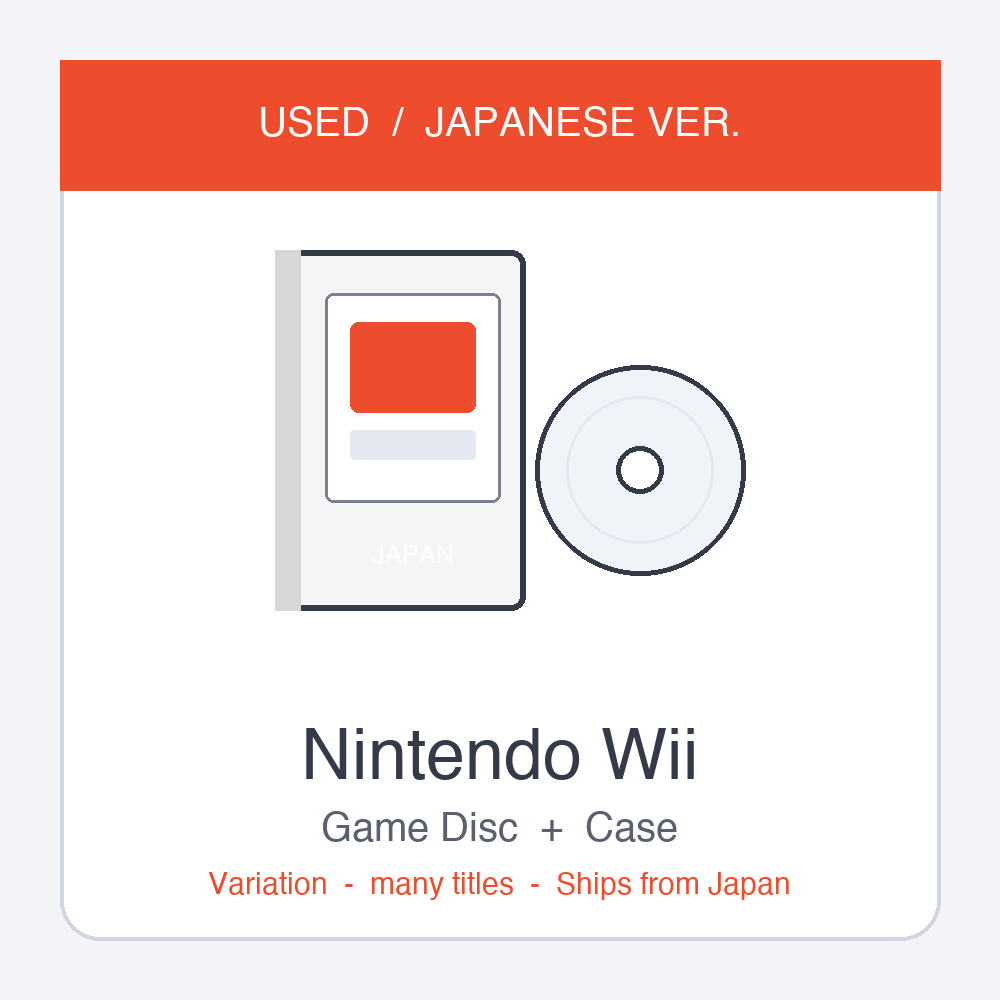
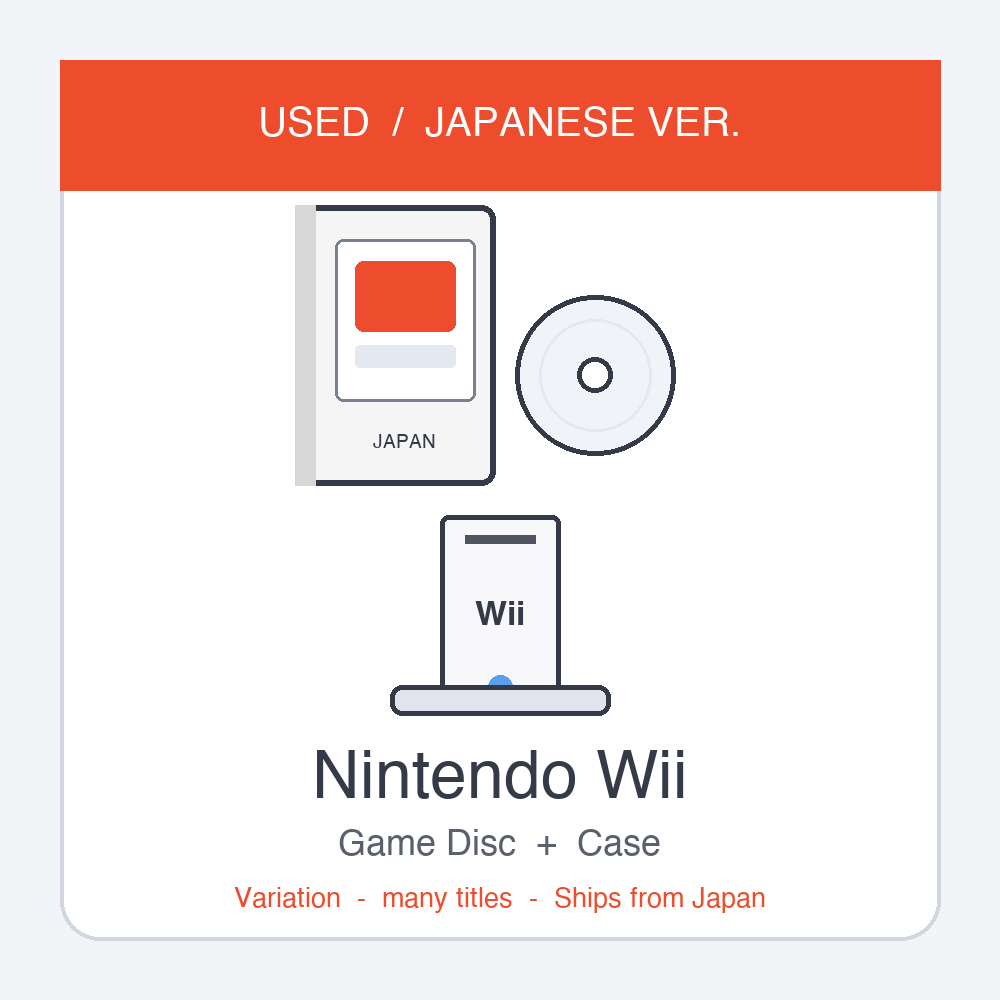
🖼 仮の表紙：全26機種に本体のイラスト（本人「どのハードか分かるイラストじゃないとダメ」）＋生成スクリプト tools/make_covers.py

Changed region(s): [[0.248, 0.186, 0.806, 0.93], [0.682, 0.403, 0.744, 0.558], [0.217, 0.868, 0.341, 0.93]]

diff --git a/tools/make_covers.py b/tools/make_covers.py
@@ -1,0 +1,118 @@
+from PIL import Image, ImageDraw, ImageFont
+HW={'switch2':('Nintendo Switch 2','Game Cartridge  +  Case','cart',1),'switch':('Nintendo Switch','Game Cartridge  +  Case','cart',1),'ps5':('PlayStation 5','Game Disc  +  Case','disc',1),'ps4':('PlayStation 4','Game Disc  +  Case','disc',1),'ps3':('PlayStation 3','Game Disc  +  Case','disc',1),'ps2':('PlayStation 2','Game Disc  +  Case','disc',1),'ps1':('PlayStation','Game Disc  +  Case','disc',1),'psp':('PSP','UMD  +  Case','umd',1),'vita':('PS Vita','Game Card  +  Case','cart',1),'ds':('Nintendo DS','Game Card  +  Case','cart',1),'3ds':('Nintendo 3DS','Game Card  +  Case','cart',1),'wii':('Nintendo Wii','Game Disc  +  Case','disc',1),'wiiu':('Nintendo Wii U','Game Disc  +  Case','disc',1),'gc':('Nintendo GameCube','Game Disc  +  Case','disc',1),'n64':('Nintendo 64','Game Cassette','cas',0),'sfc':('Super Famicom','Game Cassette','cas',0),'fc':('Famicom','Game Cassette','cas',0),'gba':('Game Boy Advance','Game Cartridge','cart',0),'gb':('Game Boy','Game Cartridge','cart',0),'md':('Sega Mega Drive','Game Cassette','cas',0),'ss':('Sega Saturn','Game Disc  +  Case','disc',1),'dc':('Sega Dreamcast','Game Disc  +  Case','disc',1),'ws':('WonderSwan','Game Cartridge','cart',0),'xbox':('Xbox','Game Disc  +  Case','disc',1),'xbox360':('Xbox 360','Game Disc  +  Case','disc',1),'pce':('PC Engine','Game Software','cas',0)}
+F=lambda s: ImageFont.truetype('/System/Library/Fonts/Helvetica.ttc',s)
+FB=lambda s: ImageFont.truetype('/System/Library/Fonts/Helvetica.ttc',s,index=1)
+INK=(52,58,72); LINE=(120,128,145); ACC=(238,77,45); PALE=(228,232,240); FILL=(240,243,248)
+BLK=(40,44,54); GRY=(190,194,204); WHT=(248,248,250); DK=(70,74,86)
+def rr(d,box,r,fill,outline=INK,w=5): d.rounded_rectangle(box,radius=r,fill=fill,outline=outline,width=w)
+def disc(d,cx,cy,r):
+    d.ellipse((cx-r,cy-r,cx+r,cy+r),fill=FILL,outline=INK,width=5); d.ellipse((cx-r*0.7,cy-r*0.7,cx+r*0.7,cy+r*0.7),outline=PALE,width=3); d.ellipse((cx-r*0.22,cy-r*0.22,cx+r*0.22,cy+r*0.22),fill='white',outline=INK,width=5)
+def cart(d,cx,cy,w,h):
+    x0,y0,x1,y1=cx-w//2,cy-h//2,cx+w//2,cy+h//2
+    rr(d,(x0,y0,x1,y1),int(w*0.08),FILL); rr(d,(x0+w*0.14,y0+h*0.12,x1-w*0.14,y0+h*0.62),8,'white',LINE,3); rr(d,(x0+w*0.3,y0+h*0.2,x1-w*0.3,y0+h*0.5),6,ACC,ACC,1)
+    d.rectangle((x0+w*0.22,y1-h*0.16,x1-w*0.22,y1-5),fill=(224,228,236),outline=LINE,width=2)
+def cas(d,cx,cy,w,h):
+    x0,y0,x1,y1=cx-w//2,cy-h//2,cx+w//2,cy+h//2
+    rr(d,(x0,y0,x1,y1),16,FILL,INK,6)
+    for i in range(5):
+        y=y0+h*0.12+i*h*0.07; d.line((x0+14,y,x0+w*0.12,y),fill=LINE,width=3); d.line((x1-w*0.12,y,x1-14,y),fill=LINE,width=3)
+    rr(d,(x0+w*0.2,y0+h*0.14,x1-w*0.2,y0+h*0.66),8,'white',LINE,4); rr(d,(x0+w*0.3,y0+h*0.22,x1-w*0.3,y0+h*0.5),8,ACC,ACC,1)
+    d.rectangle((x0+w*0.28,y1-h*0.14,x1-w*0.28,y1-6),fill=(224,228,236),outline=LINE,width=3)
+def umd(d,cx,cy,r):
+    rr(d,(cx-r*1.1,cy-r*1.0,cx+r*1.1,cy+r*1.0),30,FILL); d.ellipse((cx-r*0.75,cy-r*0.6,cx+r*0.75,cy+r*0.9),fill=(236,239,245),outline=LINE,width=4); d.ellipse((cx-r*0.18,cy-r*0.03,cx+r*0.18,cy+r*0.33),fill='white',outline=INK,width=4)
+def case(d,cx,cy,w,h,color):
+    x0,y0,x1,y1=cx-w//2,cy-h//2,cx+w//2,cy+h//2
+    rr(d,(x0,y0,x1,y1),14,color,INK,6); d.rectangle((x0,y0,x0+int(w*0.1),y1),fill=tuple(max(0,c-30) for c in color))
+    rr(d,(x0+w*0.2,y0+h*0.12,x1-w*0.1,y1-h*0.3),8,'white',LINE,3); rr(d,(x0+w*0.3,y0+h*0.2,x1-w*0.2,y0+h*0.45),8,ACC,ACC,1); rr(d,(x0+w*0.3,y0+h*0.5,x1-w*0.2,y0+h*0.58),4,PALE,PALE,1)
+    d.text(((x0+w*0.2+x1-w*0.1)/2, y1-h*0.15),'JAPAN',font=F(int(h*0.07)),fill='white' if sum(color)<600 else INK,anchor='mm')
+def label(d,cx,cy,t,size=22,fill='white'): d.text((cx,cy),t,font=FB(size),fill=fill,anchor='mm')
+# ---- consoles (each drawn centered at cx,cy within ~ 420x180) ----
+def c_switch(d,cx,cy,two):
+    w=340; h=int(w*0.42); x0,y0,x1,y1=cx-w//2,cy-h//2,cx+w//2,cy+h//2; jw=int(w*0.13)
+    rr(d,(x0,y0,x0+jw,y1),jw//2,(60,170,220) if not two else DK); rr(d,(x1-jw,y0,x1,y1),jw//2,(230,70,70) if not two else DK)
+    rr(d,(x0+jw-8,y0+6,x1-jw+8,y1-6),10,BLK); rr(d,(x0+jw+10,y0+22,x1-jw-10,y1-22),6,(120,190,235),(120,190,235),1)
+    if two: d.line((x0+jw-8,y0+6,x0+jw-8,y1-6),fill=(200,60,60),width=6); d.line((x1-jw+8,y0+6,x1-jw+8,y1-6),fill=(200,60,60),width=6); label(d,cx,cy,'2',int(h*0.6))
+    else: label(d,cx,cy,'SWITCH',30)
+    for (x,y) in [(x0+jw//2,y0+h*0.3),(x1-jw//2,y0+h*0.65)]: d.ellipse((x-9,y-9,x+9,y+9),fill=(30,30,36))
+def c_ps5(d,cx,cy):
+    d.polygon([(cx-60,cy-95),(cx+60,cy-95),(cx+75,cy+95),(cx-75,cy+95)],fill=WHT,outline=INK); d.polygon([(cx-60,cy-95),(cx+60,cy-95),(cx+75,cy+95),(cx-75,cy+95)],outline=INK,width=5)
+    rr(d,(cx-28,cy-80,cx+28,cy+80),10,BLK); rr(d,(cx-120,cy-30,cx-82,cy+30),8,WHT); rr(d,(cx+82,cy-30,cx+120,cy+30),8,WHT)
+    label(d,cx,cy,'PS5',28)
+def c_ps4(d,cx,cy):
+    d.polygon([(cx-190,cy-40),(cx+170,cy-55),(cx+190,cy+40),(cx-170,cy+55)],fill=BLK,outline=INK); d.line((cx-180,cy+5,cx+180,cy-8),fill=(80,84,96),width=4)
+    d.line((cx-150,cy-10,cx-60,cy-14),fill=(60,120,230),width=5); label(d,cx+60,cy+8,'PS4',32)
+def c_ps3(d,cx,cy):
+    rr(d,(cx-190,cy-55,cx+190,cy+55),28,BLK); d.chord((cx-190,cy-110,cx+190,cy+40),180,360,fill=(60,64,76),outline=INK,width=5); d.line((cx-150,cy+15,cx+150,cy+15),fill=(90,94,106),width=3); label(d,cx,cy+8,'PS3',32)
+def c_ps2(d,cx,cy):
+    rr(d,(cx-170,cy-65,cx+170,cy+65),8,BLK); rr(d,(cx-150,cy-45,cx-20,cy+45),4,(70,74,86),(70,74,86),1); d.rectangle((cx+20,cy-55,cx+40,cy+55),fill=(60,110,220)); d.rectangle((cx+60,cy-20,cx+150,cy-10),fill=GRY); label(d,cx-85,cy,'PS2',30)
+def c_ps1(d,cx,cy):
+    rr(d,(cx-170,cy-60,cx+170,cy+60),14,GRY,INK,6); d.ellipse((cx-70,cy-55,cx+70,cy+45),fill=(205,208,216),outline=INK,width=4); rr(d,(cx-150,cy+25,cx-60,cy+45),4,(90,94,106),(90,94,106),1); rr(d,(cx+60,cy+25,cx+150,cy+45),4,(90,94,106),(90,94,106),1); label(d,cx,cy-5,'PS',34,INK)
+def c_psp(d,cx,cy):
+    rr(d,(cx-200,cy-75,cx+200,cy+75),40,BLK); rr(d,(cx-120,cy-55,cx+120,cy+55),6,(120,190,235),(120,190,235),1); d.ellipse((cx-170,cy-20,cx-130,cy+20),fill=DK,outline=GRY,width=3)
+    for (x,y) in [(cx+150,cy-25),(cx+170,cy),(cx+150,cy+25),(cx+130,cy)]: d.ellipse((x-7,y-7,x+7,y+7),fill=GRY)
+    label(d,cx,cy,'PSP',34)
+def c_vita(d,cx,cy):
+    rr(d,(cx-205,cy-70,cx+205,cy+70),70,BLK); rr(d,(cx-125,cy-50,cx+125,cy+50),6,(120,190,235),(120,190,235),1); d.ellipse((cx-170,cy-18,cx-134,cy+18),fill=DK,outline=GRY,width=3); d.ellipse((cx+134,cy-18,cx+170,cy+18),fill=DK,outline=GRY,width=3); label(d,cx,cy,'VITA',34)
+def c_ds(d,cx,cy,three):
+    col=GRY if not three else (230,230,235)
+    rr(d,(cx-150,cy-95,cx+150,cy-5),16,col); rr(d,(cx-110,cy-82,cx+110,cy-18),4,(120,190,235),(120,190,235),1)
+    rr(d,(cx-150,cy+5,cx+150,cy+95),16,col); rr(d,(cx-70,cy+16,cx+70,cy+84),4,(120,190,235),(120,190,235),1)
+    rr(d,(cx-135,cy+35,cx-95,cy+65),4,DK,DK,1); 
+    for (x,y) in [(cx+110,cy+40),(cx+128,cy+56),(cx+92,cy+56),(cx+110,cy+72)]: d.ellipse((x-6,y-6,x+6,y+6),fill=DK)
+    label(d,cx,cy-50,'3DS' if three else 'DS',30,INK)
+def c_wii(d,cx,cy):
+    rr(d,(cx-60,cy-100,cx+60,cy+100),8,WHT); d.rectangle((cx-35,cy-80,cx+35,cy-72),fill=(80,84,96)); d.ellipse((cx-12,cy+60,cx+12,cy+84),fill=(90,160,235)); rr(d,(cx-110,cy+70,cx+110,cy+100),12,(225,228,236)); label(d,cx,cy,'Wii',34,INK)
+def c_wiiu(d,cx,cy):
+    rr(d,(cx-210,cy-80,cx+210,cy+80),50,WHT); rr(d,(cx-130,cy-62,cx+130,cy+62),6,(120,190,235),(120,190,235),1); d.ellipse((cx-180,cy-25,cx-130,cy+25),fill=(225,228,236),outline=INK,width=3); d.ellipse((cx+130,cy-25,cx+180,cy+25),fill=(225,228,236),outline=INK,width=3); label(d,cx,cy,'Wii U',34,INK)
+def c_gc(d,cx,cy):
+    rr(d,(cx-95,cy-75,cx+95,cy+95),14,(110,70,170)); rr(d,(cx-40,cy-100,cx+40,cy-70),8,(110,70,170)); d.ellipse((cx-45,cy-50,cx+45,cy+30),fill=(90,55,145),outline=INK,width=4); d.rectangle((cx-80,cy+55,cx+80,cy+80),fill=(90,55,145)); label(d,cx,cy+68,'GAMECUBE',18)
+def c_n64(d,cx,cy):
+    rr(d,(cx-190,cy-50,cx+190,cy+70),24,(70,74,86)); rr(d,(cx-60,cy-75,cx+60,cy-40),8,(55,58,68)); 
+    for i,c in enumerate([(230,70,70),(60,170,110),(60,110,220),(240,200,60)]): d.ellipse((cx-150+i*85-18,cy+10-18,cx-150+i*85+18,cy+10+18),fill=c)
+    label(d,cx,cy+48,'NINTENDO 64',20)
+def c_sfc(d,cx,cy):
+    rr(d,(cx-190,cy-55,cx+190,cy+65),30,GRY,INK,6); rr(d,(cx-170,cy-25,cx+170,cy+5),6,(205,208,216),(205,208,216),1); rr(d,(cx-170,cy+22,cx-110,cy+48),6,(120,110,200),(120,110,200),1); rr(d,(cx-95,cy+22,cx-35,cy+48),6,(120,110,200),(120,110,200),1)
+    for i,c in enumerate([(60,170,110),(230,70,70),(60,110,220),(240,200,60)]): d.ellipse((cx+60+ (i%2)*40 -11, cy+20+(i//2)*22-11, cx+60+(i%2)*40+11, cy+20+(i//2)*22+11),fill=c)
+    label(d,cx,cy-40,'SUPER FAMICOM',18,INK)
+def c_fc(d,cx,cy):
+    rr(d,(cx-190,cy-50,cx+190,cy+70),10,(205,40,45)); rr(d,(cx-175,cy-35,cx+175,cy+10),6,(245,240,230),(245,240,230),1); rr(d,(cx-165,cy+25,cx-60,cy+55),4,(245,240,230),(245,240,230),1); rr(d,(cx+60,cy+25,cx+165,cy+55),4,(245,240,230),(245,240,230),1); d.rectangle((cx-40,cy+20,cx+40,cy+60),fill=(170,30,35)); label(d,cx,cy-12,'FAMILY COMPUTER',18,INK)
+def c_gba(d,cx,cy):
+    rr(d,(cx-205,cy-70,cx+205,cy+70),60,(110,70,170)); rr(d,(cx-95,cy-50,cx+95,cy+50),4,(150,200,150),(150,200,150),1); rr(d,(cx-170,cy-22,cx-126,cy+22),4,DK,DK,1); d.ellipse((cx+120,cy-5,cx+150,cy+25),fill=DK); d.ellipse((cx+150,cy-30,cx+180,cy),fill=DK); label(d,cx,cy,'GBA',30,INK)
+def c_gb(d,cx,cy):
+    rr(d,(cx-85,cy-110,cx+85,cy+110),16,(205,208,216),INK,6); rr(d,(cx-65,cy-95,cx+65,cy-10),8,(80,84,96),(80,84,96),1); rr(d,(cx-45,cy-85,cx+45,cy-20),2,(150,200,150),(150,200,150),1); rr(d,(cx-65,cy+25,cx-30,cy+60),3,DK,DK,1); d.ellipse((cx+20,cy+40,cx+45,cy+65),fill=(160,40,80)); d.ellipse((cx+48,cy+22,cx+73,cy+47),fill=(160,40,80)); label(d,cx,cy+90,'GAME BOY',16,INK)
+def c_md(d,cx,cy):
+    rr(d,(cx-190,cy-55,cx+190,cy+65),16,BLK,INK,6); d.ellipse((cx-100,cy-45,cx+100,cy+55),fill=(60,64,76),outline=INK,width=4); rr(d,(cx-170,cy-30,cx-120,cy-15),3,DK,DK,1); label(d,cx,cy+5,'16-BIT',26,(240,200,60)); label(d,cx+140,cy+40,'MD',24)
+def c_ss(d,cx,cy):
+    rr(d,(cx-190,cy-55,cx+190,cy+65),18,(205,208,216),INK,6); d.ellipse((cx-70,cy-45,cx+70,cy+55),fill=(225,228,236),outline=INK,width=4); rr(d,(cx-170,cy+25,cx-110,cy+45),4,DK,DK,1); rr(d,(cx+110,cy+25,cx+170,cy+45),4,DK,DK,1); label(d,cx,cy-35,'SEGA SATURN',18,INK)
+def c_dc(d,cx,cy):
+    rr(d,(cx-120,cy-85,cx+120,cy+95),18,WHT,INK,6); d.ellipse((cx-70,cy-60,cx+70,cy+70),fill=(235,238,244),outline=INK,width=4); d.arc((cx-25,cy-20,cx+25,cy+30),0,300,fill=(240,120,40),width=7); label(d,cx,cy+82,'DREAMCAST',16,INK)
+def c_ws(d,cx,cy):
+    rr(d,(cx-200,cy-70,cx+200,cy+70),22,(225,228,236),INK,6); rr(d,(cx-110,cy-50,cx+110,cy+50),4,(150,200,150),(150,200,150),1)
+    for (x,y) in [(cx-160,cy-40),(cx-160,cy-10),(cx-160,cy+20),(cx-130,cy-25),(cx-130,cy+5)]: d.ellipse((x-8,y-8,x+8,y+8),fill=DK)
+    d.ellipse((cx+140,cy-5,cx+165,cy+20),fill=DK); d.ellipse((cx+165,cy-30,cx+190,cy-5),fill=DK); label(d,cx,cy,'WONDERSWAN',18,INK)
+def c_xbox(d,cx,cy):
+    rr(d,(cx-190,cy-60,cx+190,cy+70),14,BLK,INK,6); d.ellipse((cx-45,cy-50,cx+45,cy+40),fill=(60,64,76),outline=(80,200,80),width=5); d.line((cx-20,cy-25,cx+20,cy+15),fill=(80,200,80),width=7); d.line((cx+20,cy-25,cx-20,cy+15),fill=(80,200,80),width=7); label(d,cx+120,cy+10,'XBOX',22)
+def c_x360(d,cx,cy):
+    d.polygon([(cx-70,cy-100),(cx+70,cy-100),(cx+55,cy+100),(cx-55,cy+100)],fill=WHT,outline=INK); d.polygon([(cx-70,cy-100),(cx+70,cy-100),(cx+55,cy+100),(cx-55,cy+100)],outline=INK,width=5); d.ellipse((cx-22,cy-80,cx+22,cy-36),fill=(80,200,80)); d.rectangle((cx-40,cy+10,cx+40,cy+20),fill=(200,204,212)); label(d,cx,cy+60,'360',26,INK)
+def c_pce(d,cx,cy):
+    rr(d,(cx-110,cy-55,cx+110,cy+55),10,WHT,INK,6); rr(d,(cx-90,cy-35,cx+90,cy-5),4,(225,228,236),(225,228,236),1); d.rectangle((cx-60,cy+15,cx+60,cy+35),fill=(240,120,40)); label(d,cx,cy+25,'PC Engine',16)
+CON={'switch2':lambda d,x,y:c_switch(d,x,y,True),'switch':lambda d,x,y:c_switch(d,x,y,False),'ps5':c_ps5,'ps4':c_ps4,'ps3':c_ps3,'ps2':c_ps2,'ps1':c_ps1,'psp':c_psp,'vita':c_vita,'ds':lambda d,x,y:c_ds(d,x,y,False),'3ds':lambda d,x,y:c_ds(d,x,y,True),'wii':c_wii,'wiiu':c_wiiu,'gc':c_gc,'n64':c_n64,'sfc':c_sfc,'fc':c_fc,'gba':c_gba,'gb':c_gb,'md':c_md,'ss':c_ss,'dc':c_dc,'ws':c_ws,'xbox':c_xbox,'xbox360':c_x360,'pce':c_pce}
+for hw,(a,b,kind,withCase) in HW.items():
+    im=Image.new('RGB',(1000,1000),(243,244,247)); d=ImageDraw.Draw(im)
+    rr(d,(60,60,940,940),40,(255,255,255),(210,214,222),4)
+    d.rectangle((60,60,940,190),fill=ACC); d.text((500,125),'USED  /  JAPANESE VER.',font=F(40),fill='white',anchor='mm')
+    if withCase:
+        cc=(230,60,60) if hw.startswith('switch') else (60,110,200) if hw.startswith('ps') or hw in('psp','vita') else (245,245,245) if hw in('wii','wiiu') else (90,90,100)
+        case(d,395,345,200,280,cc)
+        if kind=='disc': disc(d,595,375,80)
+        elif kind=='cart': cart(d,590,380,100,125)
+        else: umd(d,595,380,75)
+    else:
+        if kind=='cas': cas(d,500,340,240,230)
+        else: cart(d,500,340,190,235)
+    CON[hw](d,500,615)
+    d.text((500,780),a,font=F(66 if len(a)<=14 else 54),fill=INK,anchor='mm')
+    d.text((500,845),b,font=F(36),fill=(90,96,110),anchor='mm')
+    d.text((500,900),'Variation  -  many titles  -  Ships from Japan',font=F(27),fill=ACC,anchor='mm')
+    im.save(f'img/cover_{hw}.png',optimize=True)
+print('ok')
